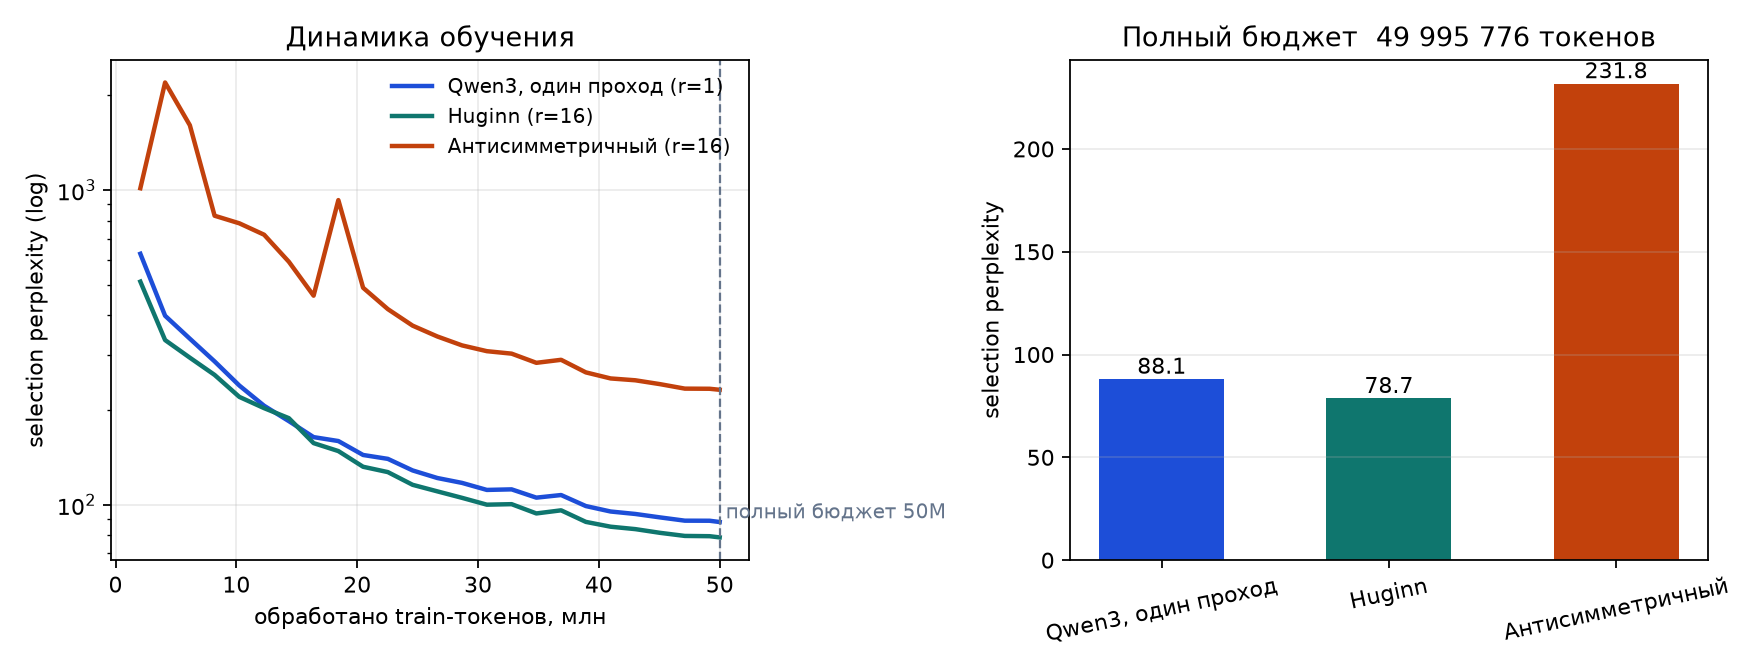
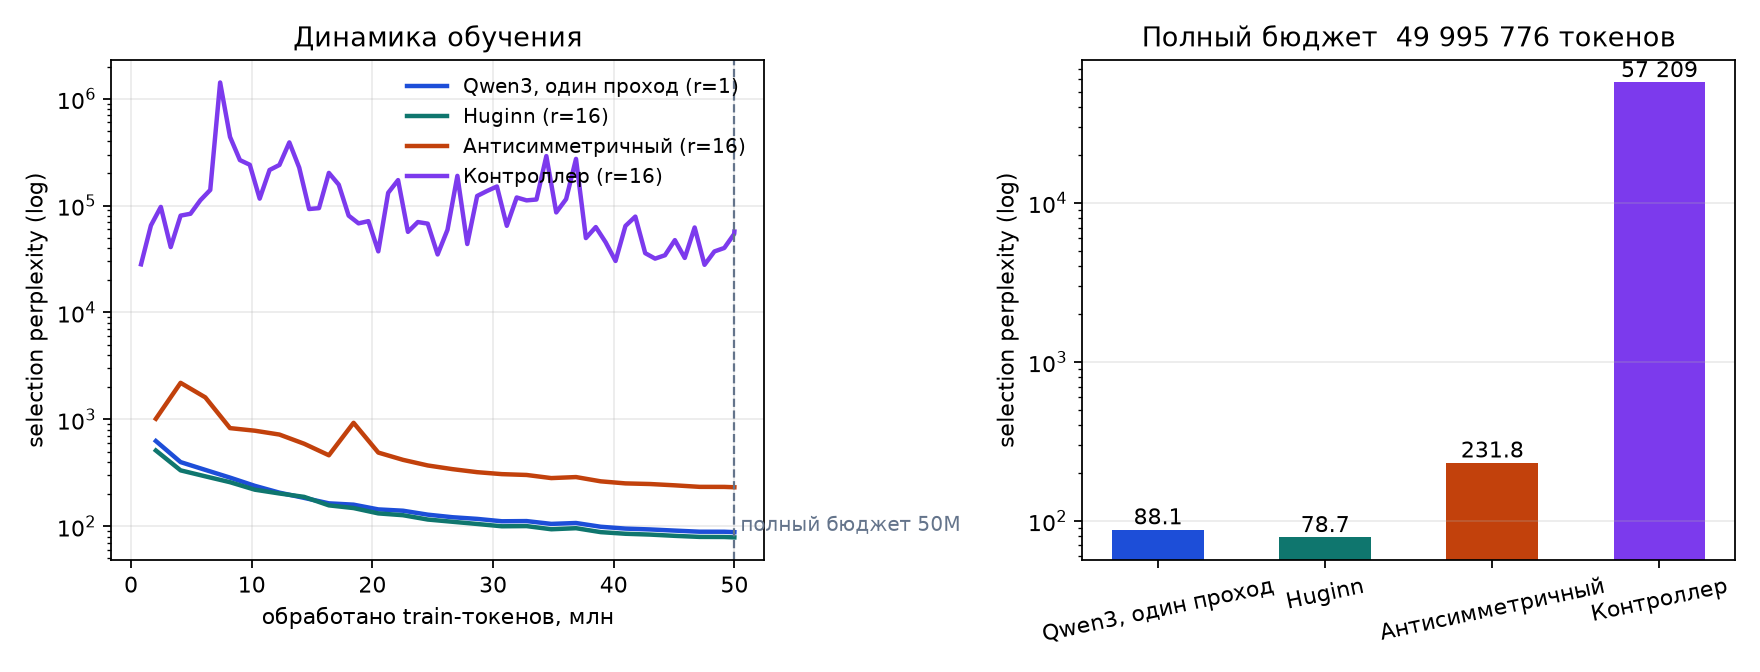
Добавить контроллер на рисунок и привести таблицу к одной точке отсчёта
На рисунке было три варианта из четырёх, а в таблице у контроллера стояла лучшая
точка, тогда как у остальных последняя. Шкала столбцов сделана логарифмической,
иначе контроллер на три порядка выше и остальные три столбца не видны.

diff --git a/make_figures.py b/make_figures.py
@@ -14,11 +14,15 @@ SERIES = [
     ("baseline-a100", "Qwen3, один проход (r=1)", "#1d4ed8"),
     ("huginn-a100", "Huginn (r=16)", "#0f766e"),
     ("antisymmetric-a100", "Антисимметричный (r=16)", "#c2410c"),
+    ("controller-a100-50M", "Контроллер (r=16)", "#7c3aed"),
 ]
 
 
 def load(tag):
-    rows = json.loads((RUNS / f"{tag}-history").read_text())
+    source = RUNS / f"{tag}-history"
+    if not source.exists():
+        source = Path("runs") / tag / "history.json"
+    rows = json.loads(source.read_text())
     return [r["tokens"] for r in rows], [math.exp(r["loss"]) for r in rows]
 
 
@@ -46,10 +50,12 @@ def main():
         values.append(cut[1])
         colors.append(color)
     bars = axes[1].bar(names, values, color=colors, width=0.55)
+    axes[1].set_yscale("log")  # контроллер на три порядка выше остальных
     for bar, value in zip(bars, values):
-        axes[1].text(bar.get_x() + bar.get_width() / 2, value, f"{value:.1f}",
+        axes[1].text(bar.get_x() + bar.get_width() / 2, value, f"{value:,.0f}".replace(",", " ")
+                     if value > 1000 else f"{value:.1f}",
                      ha="center", va="bottom", fontsize=10)
-    axes[1].set_ylabel("selection perplexity")
+    axes[1].set_ylabel("selection perplexity (log)")
     axes[1].set_title(f"Полный бюджет, {CUT:,} токенов".replace(",", " "))
     axes[1].tick_params(axis="x", labelrotation=12)
     axes[1].grid(alpha=0.25, axis="y")

diff --git a/report.md b/report.md
@@ -69,7 +69,7 @@ $$
 | Qwen3, один проход | 8 851 840 | 49 995 776 | 1 | 4 | 4.4782 | 88.07 |
 | Huginn | 9 147 136 | 49 995 776 | 16 | 32 | 4.3656 | 78.70 |
 | Антисимметричный | 9 000 066 | 49 995 776 | 16 | 64 | 5.4458 | 231.78 |
-| Контроллер | 9 450 500 | 49 995 776 | 16 | 64 | 10.2375 | 27 931.8 |
+| Контроллер | 9 450 500 | 49 995 776 | 16 | 64 | 10.9545 | 57 208.6 |
 
 Повторы работают: Huginn при 16 циклах даёт выигрыш 10.6% перплексии над одним проходом Qwen3 при равном числе токенов и параметров. Левый график показывает, что это не эффект точки среза. Кривая Huginn идёт ниже кривой одного прохода на всём протяжении обучения и ни разу её не пересекает, а разрыв между ними медленно растёт.
 
